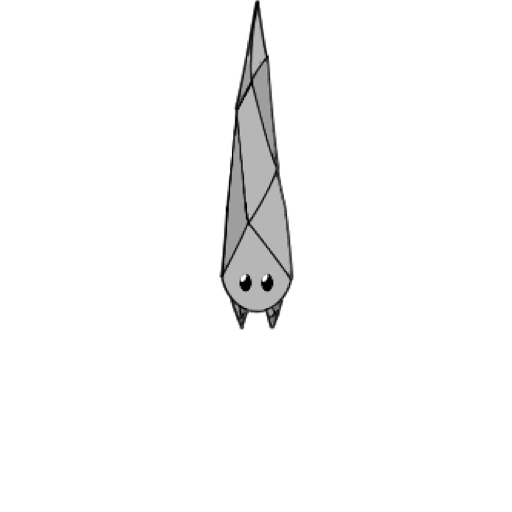
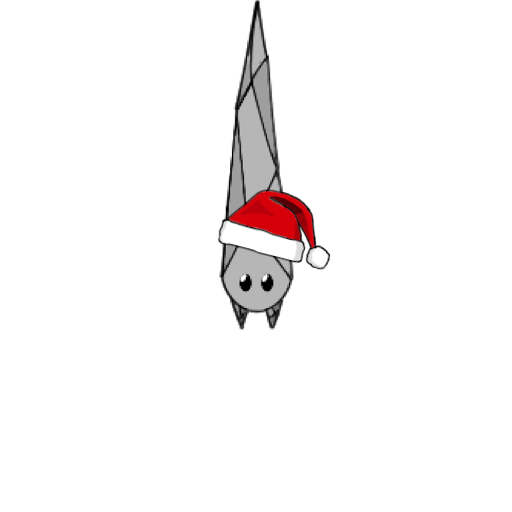
adding Christmas Hats :D

Changed region(s): [[0.4062, 0.3438, 0.6562, 0.5312]]

diff --git a/src/de/acagamics/constants/ClientConstants.java b/src/de/acagamics/constants/ClientConstants.java
@@ -11,7 +11,7 @@ public final class ClientConstants {
 	 * <p>
 	 * Value = {@value #VERSION}
 	 */
-	public static final String VERSION = "1.2.2";
+	public static final String VERSION = "1.2.3";
 	/**
 	 * The url to the list of news.
 	 * <p>
